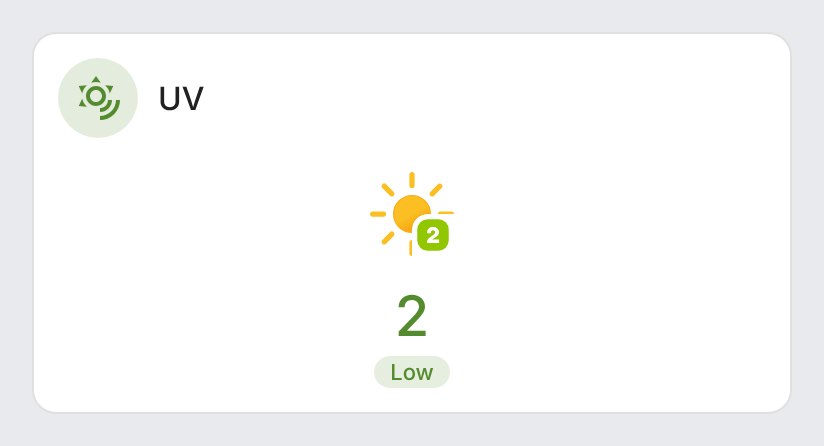
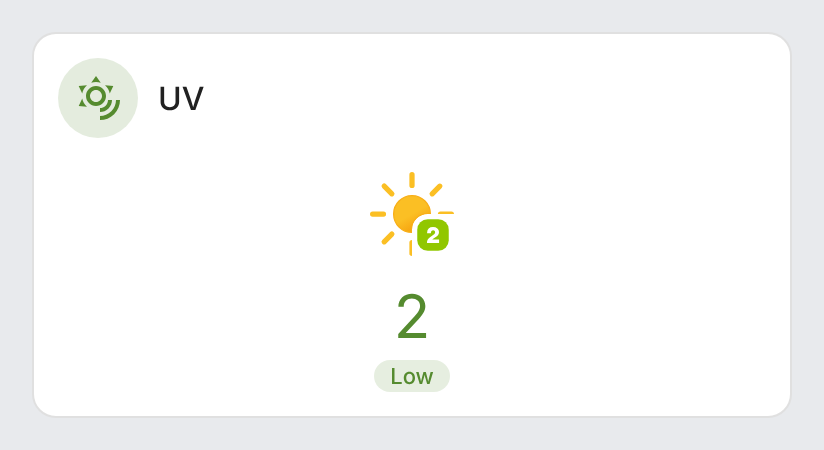
Main value at 30px regular like the other cards
The UV index value goes from 28px medium to 30px regular weight.

Claude-Session: https://claude.ai/code/session_01NW8HrjdUvTF3zwsaKKxQNw

diff --git a/src/ha-uv-card.js b/src/ha-uv-card.js
@@ -281,8 +281,8 @@ class UvIndexCard extends HTMLElement {
           min-width: 0;
         }
         .value {
-          font-size: 28px;
-          font-weight: 500;
+          font-size: 30px;
+          font-weight: 400;
           line-height: 1.1;
           color: var(--uv-color);
         }

diff --git a/CHANGELOG.md b/CHANGELOG.md
@@ -4,6 +4,7 @@
 
 ### Changes
 - Standard header like the other cards: a sun icon in a round badge tinted with the risk level color, then the name (16 px). The animated icon, value and risk level sit below it, side by side or stacked with `layout: vertical`. The card takes one more row in the sections view (3 rows, 4 when vertical).
+- The UV index value is 30 px at regular weight (was 28 px medium), like the other cards' main value.
 
 ## 1.4.1
 
